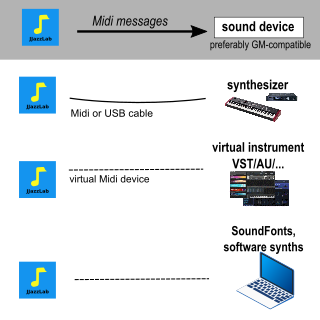
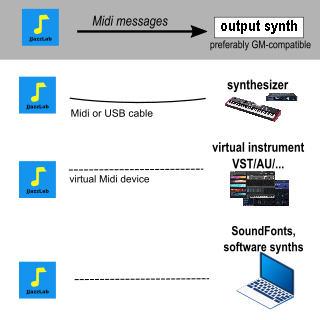
GitBook: [master] 10 pages and 2 assets modified

Changed region(s): [[0.6875, 0.0625, 0.9375, 0.125], [0.7812, 0.3125, 0.8125, 0.3438]]

diff --git a/configuration/output-synth-editor.md b/configuration/output-synth-editor.md
@@ -1,0 +1,117 @@
+# Output synth editor
+
+{% hint style="info" %}
+If you use the [JJazzLab SoundFont](jjazzlab-1.md) you may skip this page because you’ll only use one of the Output Synth presets. 
+
+Read on if you need JJazzLab to control a specific synth, like a hardware synthesizer, VSTs, your own SoundFont, etc.
+{% endhint %}
+
+## Output Synth concept <a id="output-synth-concept"></a>
+
+The Output Synth represents the Midi synth you have connected to the output of JJazzLab:
+
+![](../.gitbook/assets/outputsynth-concept%20%281%29.png)
+
+ The Output Synth provides information used by JJazzLab for 3 important tasks:
+
+1. Propose the most relevant instruments for a given rhythm
+2. Automatically remap drum sounds when needed \(there are several standard drum key maps, like the [GM drum key map](https://en.wikipedia.org/wiki/File:GMStandardDrumMap.gif)\)
+3. Access the available instruments from the mix console
+
+The Output Synth information can be edited in the Output Synth Editor. The information can be load/saved in configuration files. By default JJazzLab uses Default.cfg.
+
+### Example <a id="example"></a>
+
+You have connected your old GM-compatible Roland synthesizer to JJazzLab. So in the Output Synth editor you have checked “GM compatible”.
+
+Your song uses the rhythm SimpleFolk.sty, a Yamaha style which defines 3 instruments:
+
+* Bass, preferred instrument is GM ‘Acoustic Bass’
+* Guitar, preferred instrument is XG ‘12 String Guitar’
+* Drums, preferred drum kit is ‘Brush’ type with the XG drums key map
+
+Using the Output Synth information \(“my synth is only GM compatible”\), JJazzLab will do the following before playing the song:
+
+* Send a Midi message “Switch GM mode ON” to the Roland synth
+* Bass: select the GM ‘Acoustic Bass’ via standard GM messages
+* Guitar: select the GM ‘Steel Guitar’, which is the closest instrument from the XG ‘12 String Guitar’
+* Drum: select the GM standard drums \(GM only has a single drum kit\), and remap all XG-specific drum notes to GM drum notes
+
+In conclusion, JJazzLab uses the Output Synth information to make the rhythm sound as close as possible as the original rhythm \(as programmed by the rhythm designer\).
+
+If your sound device/Midi synth corresponds to one of the configutations below, just apply the corresponding preset.
+
+* **GM**: a GM-compatible synth
+* **JJazzLab SoundFont**: a soundfont player with the JazzLab SoundFont loaded
+* **Yamaha Tyros**: a Yamaha arranger keyboard of the Tyros/PSR family
+
+## Default instruments <a id="default-instruments"></a>
+
+The Ouput Synth Editor lets you map standard GM Instruments to Default Instruments of your choice. You can also set a default instrument for a ‘family’, e.g. all the organs.
+
+  
+ EXAMPLE: You mapped the GM instrument ‘Bright Piano’ to the JJazzLab SoundFont instrument ‘Hard FM EP’. Now each time a rhythm needs a GM Bright Piano, JJazzLab will use the ‘Hard FM EP’ instrument instead.
+
+## Midi synth definition files \(Cakewalk .ins format\) <a id="midi-synth-definition-files-cakewalk-ins-format"></a>
+
+JJazzLab can read Cakewalk instrument definition files \(.ins\). Such a file defines a Midi synth with its list of instrument and how to select them via Midi \(Bank Select/Program Change values\). JJazzLab ships with .ins files for a few existing harware synthesizers \(e.g. Yamaha Motif, Korg X-50, …\). If you don’t find an .ins file for your sound device, you can search the web or create your own \(google “Cakewalk Instrument Definition File” for help\).
+
+One or more .ins files can be added from the Output Synth editor : 
+
+## JJazzLab .ins format extensions <a id="jjazzlab-ins-format-extensions"></a>
+
+The standard .ins file format lacks some information for JJazzLab to fully optimize instrument selection and drum notes remapping.
+
+JJazzLab needs:
+
+1. For melodic instruments: its _GM substitute_ instrument  Example: the _GM substitute_ for the XG instrument ‘12 String Guitar’ is the GM instrument ‘Steel Guitar’
+2. For percussion instruments/drum kits: its _type_ and its _drum key map_ 
+
+Therefore some \(optional\) extensions have been introduced, as show in the examples below.
+
+```text
+;
+; {{ SubGM1= }}
+;
+[PRE1]
+0=Pn:Full Concert Grand {{ SubGM1=0 }}       ; substitute = GM Acoustic Piano
+1=Pn:Rock Grand Piano   {{ SubGM1=1 }}       ; substitute = GM Bright Piano 
+2=Pn:Mellow Grand Piano {{ SubGM1=0 }}       ; substitute = GM Acoustic Piano
+5=Pn:Aggressive Grand   {{ SubGM1=1 }}       ; substitute = GM Bright Piano
+...
+18=Pn:CP 1979           {{ SubGM1=3 }}       ; substitute = GM Electric Grand Piano
+19=Pn:CP70 Chorus       {{ SubGM1=3 }}       ; substitute = GM Piano
+...
+```
+
+```text
+;
+; {{ DrumKit=,  }}
+;          : STANDARD, POWER, ROOM, ELECTRONIC, ANALOG, JAZZ, BRUSH, ORCHESTRA, SFX
+;  : GM, GS_GM2, XG
+;
+[DR:PRE]
+0=Dr:Power Standard Kit 1   {{DrumKit=POWER, XG}} 
+1=Dr:Power Standard Kit 2   {{DrumKit=POWER, XG}} 
+2=Dr:Hyper Standard Kit     {{DrumKit=STANDARD, XG}} 
+3=Dr:Dry Standard Kit       {{DrumKit=ROOM, XG}} 
+...
+```
+
+```text
+;
+; {{ UseGsInstruments }}       => For melodic instrument selection a GS Sysex message will be sent to make sure channel is in melodic mode
+; {{ UseGsDrumsInstruments }}  => For drums instrument selection a GS Sysex message will be sent to make sure channel is in percussion mode
+;
+[JJazzLab SoundFont (GS)]
+BankSelMethod=1                                ; Use Bank Select MSB only
+Patch[0]=GM Bank  {{ UseGsInstruments }}       ; This bank stores GS melodic instruments
+Patch[128]=Bank 1 {{ UseGsInstruments }}       ; This bank stores GS melodic instruments 
+Patch[256]=Bank 2 {{ UseGsInstruments }}       ; This bank stores GS melodic instruments
+...
+Patch[*]=Drums    {{ UseGsDrumsInstruments }}  ; This bank stores GS drums instruments
+...
+```
+
+If you have a custom .ins file for your synth, then you should use these extensions in order to fully benefit from the JJazzLab features.
+

diff --git a/configuration/midi-configuration.md b/configuration/midi-configuration.md
@@ -1,14 +1,46 @@
 # Midi configuration
 
-JJazzLab is a Midi-based application. It does **not** directly generate audio output, rather it generates Midi messages \(eg “play a D on the bass”\) which are sent to a sound device via a Midi connection. That’s why JJazzLab needs to know about your Midi configuration in order to work properly.
-
-## Possible usages
+{% hint style="success" %}
+If you don't want to mess with Midi, use the [JJazzLab SoundFont](jjazzlab-1.md): it's optimized for JJazzLab with the best compromise Sound quality Vs Ease of set up.
+{% endhint %}
 
 ![](../.gitbook/assets/midiwizard-image1.png)
+
+JJazzLab is a Midi application. It does not directly generate audio output, rather it generates Midi messages \(eg “play a D on the bass”\) which are sent via the **Midi out device** to your **output synth**. 
+
+The **Midi out device** can be selected in the menu **Tools/Options/Midi**.
+
+The **output synth** produces the sounds. If JJazzLab knows the capabilities of your **output synth**, you can directly control it from the **mix console**, and -this is the most important- it can automatically select the most relevant sounds used by each rhythm, using drum key map conversion when necessary.
+
+Use the output synth editor to edit the capabilities of your **output synth**.
+
+
+
+## 
+
+## Ouput synth
+
+In JJazzLab the Output synth represents the audio synth which receives the Midi messages from JJazzLab. 
+
+
+
+That’s why JJazzLab needs to know about your Midi configuration in order to work properly.
+
+| Output synth | Sound quality | Ease of setup | Comment |
+| :--- | :--- | :--- | :--- |
+| SoundFont player | ++ | ++ |  |
+| External synthesizer | +++ | ++ | Connection via a Midi cable.  |
+| VST, virtual instruments | +++ | + | Need a virtual Midi port |
+| Java internal synth | + | +++ | Everything is embedded |
 
 In general we recommend to [use the JJazzLab SoundFont](https://www.jjazzlab.com/en/doc/jjazzlab-soundfont).
 
 If you’re familiar with Midi and use a hardware synthesizer or VST/AU instruments, then learn about the [Output Synth Editor](https://www.jjazzlab.com/en/doc/output-synth-editor).
+
+3 things
+
+* automatic selection of appropriate sounds for a given rhythm
+* control mix from JJazzLab or outside of JJazzLab
 
 ## Midi Configuration Wizard <a id="midi-configuration-wizard"></a>
 

diff --git a/SUMMARY.md b/SUMMARY.md
@@ -7,7 +7,8 @@
 ## Configuration
 
 * [Midi configuration](configuration/midi-configuration.md)
-* [Use the JJazzLab SoundFont](configuration/jjazzlab-1.md)
+* [JJazzLab SoundFont](configuration/jjazzlab-1.md)
+* [Output synth editor](configuration/output-synth-editor.md)
 
 ## Contribute
 

diff --git a/configuration/jjazzlab-1.md b/configuration/jjazzlab-1.md
@@ -2,7 +2,7 @@
 description: Optimized for Yamaha styles rendering
 ---
 
-# Use the JJazzLab SoundFont
+# JJazzLab SoundFont
 
 The free JJazzLab SoundFont contains 128 high-quality GM sounds plus some extra sounds. It also contains 14 XG-compatible drum kits.
 
